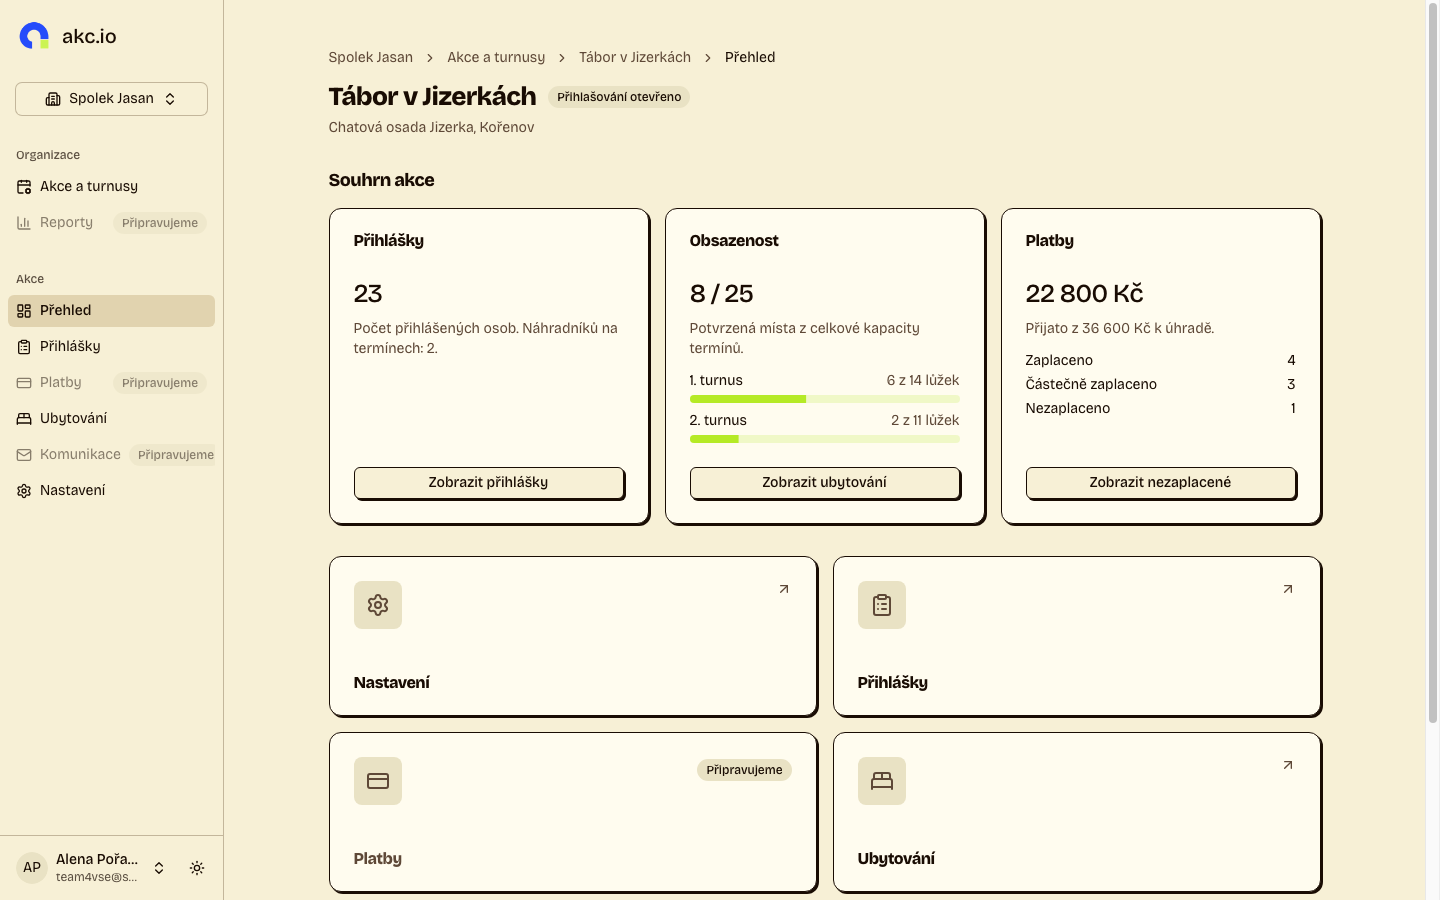
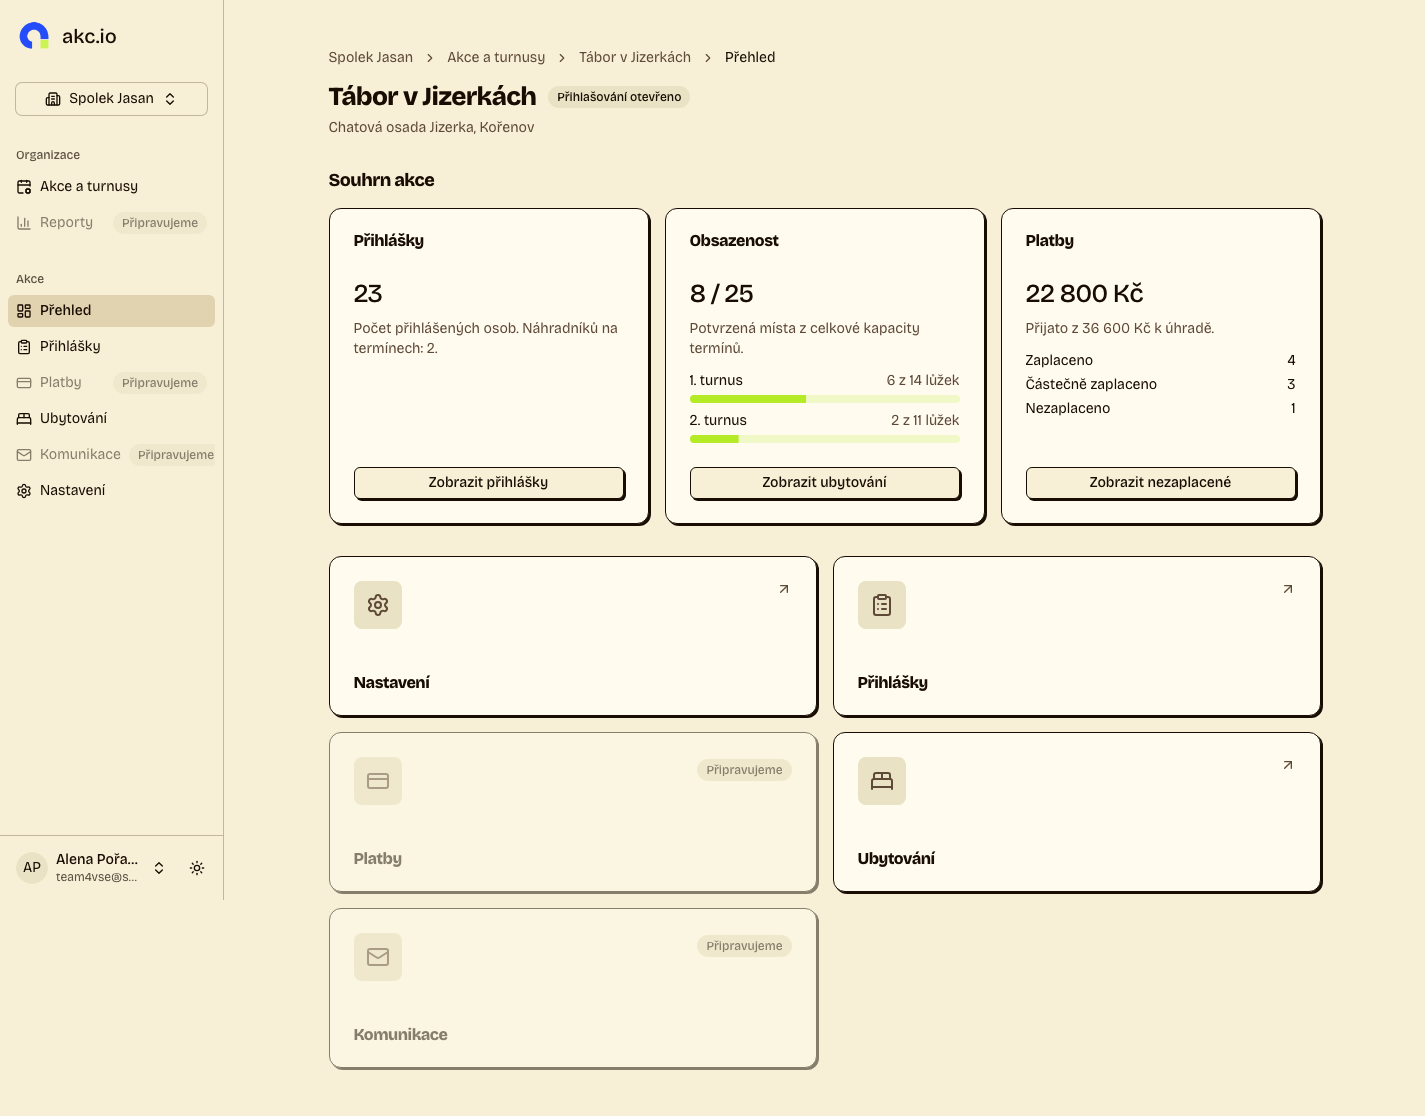
fix(events): fade the unfinished overview tiles like the sidebar entries (S3-T5)
Platby and Komunikace looked like the working tiles apart from their badge.
They are now at half opacity and marked aria-disabled, as the disabled
entries in the sidebar.

diff --git a/apps/frontend/src/features/events/components/EventNavigation.tsx b/apps/frontend/src/features/events/components/EventNavigation.tsx
@@ -13,6 +13,7 @@ import { ROUTES } from "@/app/routes"
 import { Badge } from "@/components/ui/badge"
 import { Card, CardAction, CardContent, CardHeader, CardTitle } from "@/components/ui/card"
 import { SidebarMenu, SidebarMenuButton, SidebarMenuItem } from "@/components/ui/sidebar"
+import { cn } from "@/lib/utils"
 
 const sections = [
   { label: "Přehled", icon: LayoutDashboard, to: ROUTES.event },
@@ -83,11 +84,13 @@ export function EventNavigation({ organizationId, eventId, isSidebar = false }: 
         )
       }
       // A tile is a card like the summary above it; the whole card is the link
-      // (stretched over it), an unfinished section is a plain card.
+      // (stretched over it). An unfinished section is a faded card, like the
+      // disabled entries in the sidebar.
       return (
         <li
           key={section.label}
-          className="flex"
+          aria-disabled={to ? undefined : true}
+          className={cn("flex", !to && "opacity-50 select-none")}
         >
           <Card className="group relative min-h-40 w-full justify-between">
             <CardHeader>
@@ -119,7 +122,7 @@ export function EventNavigation({ organizationId, eventId, isSidebar = false }: 
                     {section.label}
                   </Link>
                 ) : (
-                  <span className="text-muted-foreground">{section.label}</span>
+                  section.label
                 )}
               </CardTitle>
             </CardContent>
